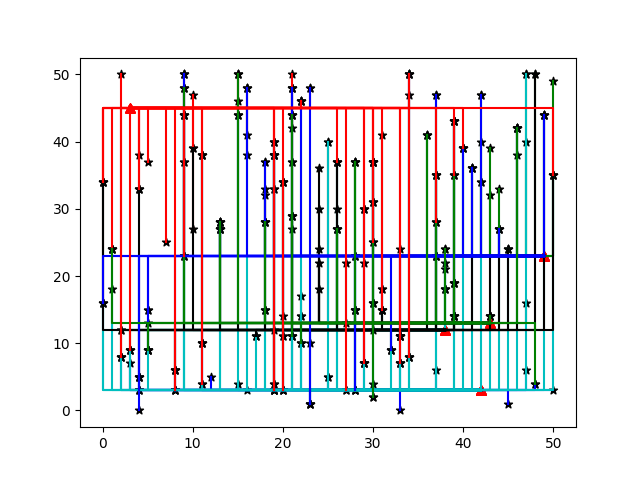
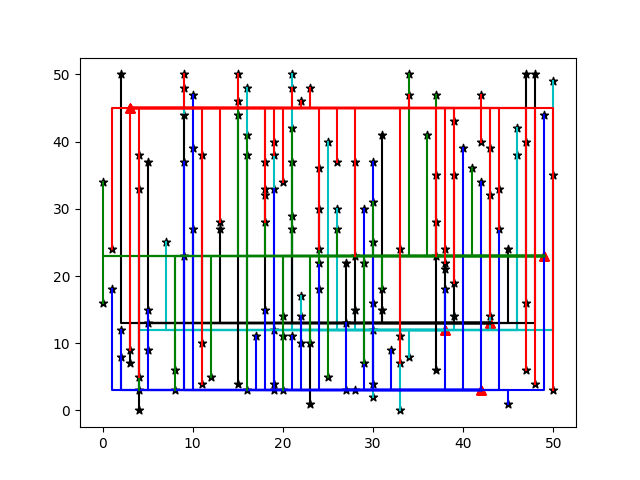
ok

diff --git a/algorithms/Random.py b/algorithms/Random.py
@@ -17,24 +17,32 @@ def random_algorithm():
     Connects each house randomly to a battery
     """
 
+    count = 0
+
+    tot_rand_costs = 0
+
     random.shuffle(houses)
-    random.shuffle(batteries)
 
-    total_costs = 0
+    for battery in batteries:
 
-    for house in houses:
+        for house in houses:
 
-        for battery in batteries:
+            if battery.capacity > house.maxoutput and house.connected_to == None:
 
-            curr_batt = random.choice(batteries)
+                battery.connect_house(house)
+                house.route_calc(battery)
+                house.add_costs(battery)
+                tot_rand_costs += house.costs
 
-            if house not in curr_batt.houses_to_battery:
+                house.connect_to_battery(battery)
+                count += 1
 
-                if house.maxoutput <= curr_batt.capacity:
-
-                    battery.connect_house(house)
-                else:
-                    continue
+    if count < 149:
+        battery.clear(house)
+        house.clear_house()
+        random_algorithm()
+    else:
+        return tot_rand_costs 
 
 
 def plot_random_algorithm():
@@ -64,7 +72,16 @@ def plot_random_algorithm():
             houses_plt = ax.scatter(house.x, house.y, color='k', marker='*')
             batteries_plt = ax.scatter(battery.x, battery.y, color='r', marker='^')
 
-            fig = plt.savefig("randomfigure.png")
+    fig = plt.savefig("randomfigure.png")
     return fig
 
+def run_rand_output():
 
+    for curr_batt in batteries:
+        print(curr_batt)
+
+        for curr_house in curr_batt.houses_to_battery:
+            print(curr_house)
+
+            for cable_point in curr_house.cables:
+                print(cable_point)

diff --git a/main.py b/main.py
@@ -27,9 +27,10 @@ else:
 
     if algo_choice == '1':
         algorithms.Random.random_algorithm()
-        plot_choice = input("Do yu like to see the visualization and output? ,Y/N: ")
+        plot_choice = input("Do you like to see the visualization and output? ,Y/N: ")
         if plot_choice == 'Y':
             algorithms.Random.plot_random_algorithm()
+            algorithms.Random.run_rand_output()
 
     elif algo_choice == '2':
 
@@ -46,6 +47,7 @@ else:
         plot_choice = input("Do you like to see the visualization and output?, Y/N: ")
         if plot_choice == "Y":
             algorithms.test_shared.constraint_relaxation()
+        
 
     elif algo_choice not in ['1', '2', '3']:
         print("Please make a choice between 1, 2 or 3")

diff --git a/models/battery.py b/models/battery.py
@@ -17,7 +17,7 @@ class Battery:
         self.batt_costs = 0
 
     def __str__(self):
-        return f"location:{self.coordinates},\ncapacity: 1507.0,\nhouses:["       
+        return f"location:{self.coordinates},\n{self.capacity},\nhouses:"       
 
 
     def add_house_info(self, house):
@@ -59,3 +59,9 @@ class Battery:
 
         if house.maxoutput < self.capacity:
             return True
+
+    def clear(self, house):
+
+        self.houses_to_battery = []
+        self.housesid_to_battery = []
+        self.capacity = int(1507.0)

diff --git a/algorithms/test_shared.py b/algorithms/test_shared.py
@@ -160,7 +160,7 @@ def constraint_relaxation():
             houses_plt = ax.scatter(house.x, house.y, color='k', marker='*')
             batteries_plt = ax.scatter(battery.x, battery.y, color='r', marker='^')
 
-    fig = plt.savefig("testsofie4.png")
+    fig = plt.savefig("constrelaxfigure.png")
     return fig
         # add all connect options to distance dictionary   
         # print(cables_coordinates)

diff --git a/algorithms/DistToBattery.py b/algorithms/DistToBattery.py
@@ -111,7 +111,7 @@ def plot_first_algorithm():
             houses_plt = ax.scatter(house.x, house.y, color='k', marker='*')
             batteries_plt = ax.scatter(battery.x, battery.y, color='r', marker='^')
 
-    fig = plt.savefig("figure.png")
+    fig = plt.savefig("hillclimberfigure.png")
     return fig
  
 def run_output():

diff --git a/models/house.py b/models/house.py
@@ -82,6 +82,11 @@ class House(object):
         return f"location: {self.coordinates}\noutput: {self.maxoutput}\ncables: ["   
 
 
+    def clear_house(self):
+
+        self.connected_to == None    
+
+
 
 
 
